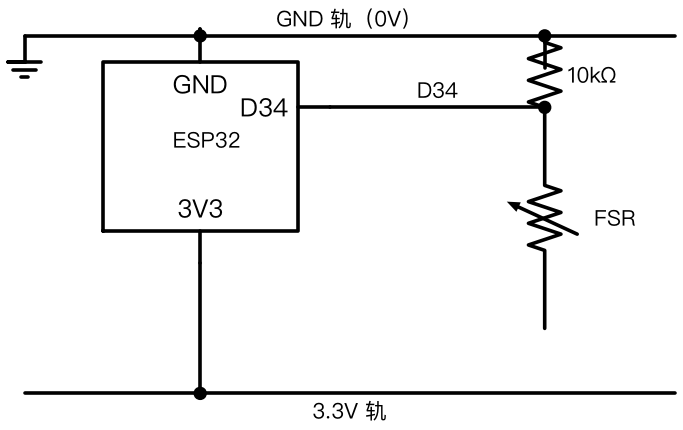
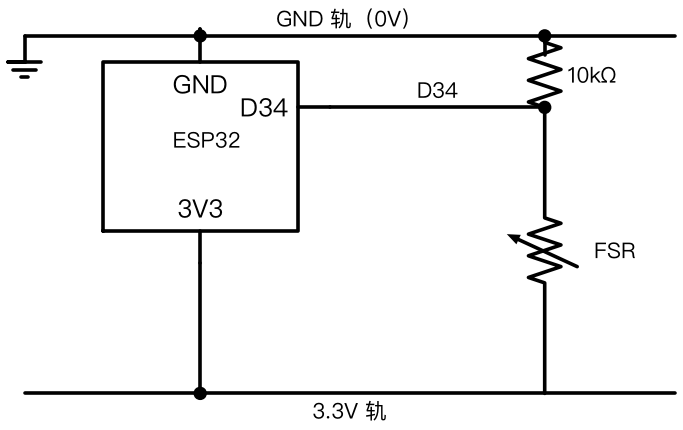
fix: FSR 悬空修复（起点坐标漏改 + .toy() 渲染偏移，改 endpoints()）；附泛洪填充连通性验收思路

Changed region(s): [[0.7379, 0.4233, 0.8609, 0.6651], [0.8609, 0.4837, 0.9531, 0.6047], [0.7687, 0.7558, 0.7994, 0.907]]

diff --git a/draw_v1_layout_style.py b/draw_v1_layout_style.py
@@ -37,8 +37,9 @@ with schemdraw.Drawing(file="web/v1_schematic_layout.png", dpi=130, show=False) 
     mid = (8, esp.absanchors["D34"][1])
 
     # 右侧立链：3.3V 轨 — FSR — ●(D34) — 10k — GND 轨
-    d += elm.ResistorVar().at((8, -4.5)).toy(mid[1]).label("FSR", loc="bottom")
+    # endpoints() 显式钉死两端坐标（.toy() 对 2 端子元件有渲染偏移，曾致 FSR 悬空）
+    d += elm.ResistorVar().endpoints((8, -5.5), mid).label("FSR", loc="bottom")
     d += elm.Dot().at(mid)
-    d += elm.Resistor().at(mid).toy(-0.5).label("10kΩ", loc="bottom")
-    d += elm.Line().at((8, -0.5)).toy(0)
+    d += elm.Resistor().endpoints(mid, (8, -0.3)).label("10kΩ", loc="bottom")
+    d += elm.Line().at((8, -0.3)).toy(0)
     d += elm.Dot()
